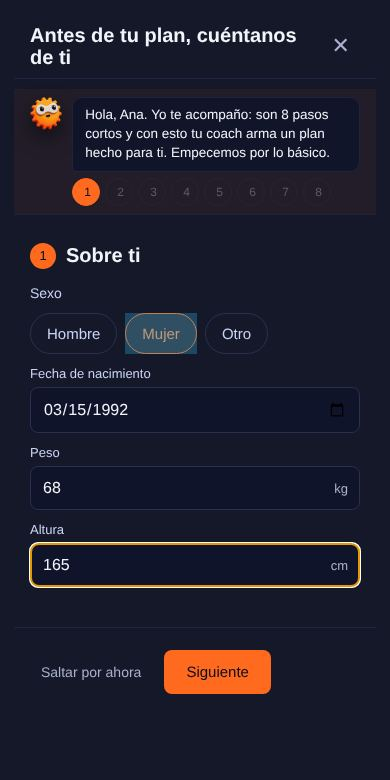
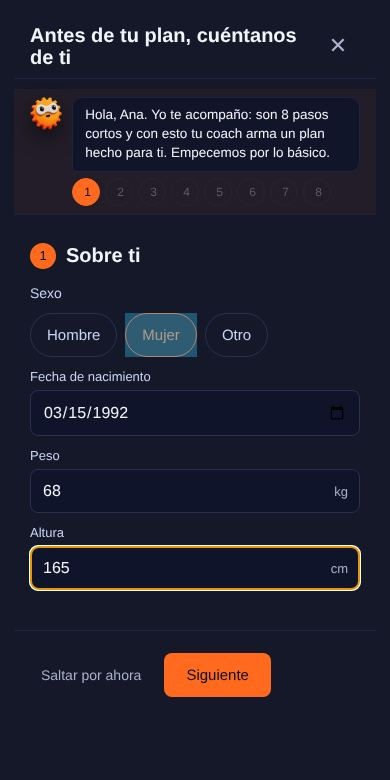
Pantalla táctil: todo lo que se toca, fácil de tocar
Con el dedo como puntero principal (@media (pointer: coarse); en computadora
no cambia nada):
- Botones, desplegables y campos miden al menos 44 px de alto.
- Campos a 16px (el celular hacía zoom al escribir).
- Enlaces de texto suelto (volver, dar de baja, cerrar sesión, reportes) con
  alto de 44 px sin cambiar su aspecto.
- Interruptores de Perfil y «+» del calendario: mismo dibujo, zona de toque
  de 44 px.
- Plan: ‹ rango › van juntos en su propia fila en celular.
- Prueba e2e que revisa Plan, Perfil y Registrar sesión en celular.

Claude-Session: https://claude.ai/code/session_01PEamorFJQWTATM98QwwjDk

diff --git a/e2e/nube/01-primer-ingreso.spec.ts b/e2e/nube/01-primer-ingreso.spec.ts
@@ -1,4 +1,5 @@
 import { test, expect, user } from '../support/ux';
+import { seedActivePlan, seedProfile } from '../support/seed';
 import { EXPERIMENTADO, NOVATA, bubbleText, dismissGuide, fillOnboarding, login } from '../support/flows';
 
 /**
@@ -408,5 +409,38 @@ test.describe('Cuestionario en celular', () => {
     await ux.shot('09-cuestionario-celular', page.locator('body'));
     await m.locator('#onboarding-next').tap();
     await expect(m.locator('.ob-step-dot[aria-current="step"]')).toHaveText('2');
+  });
+});
+
+test.describe('Pantalla táctil: lo que se toca es fácil de tocar', () => {
+  test.use({ viewport: { width: 390, height: 780 }, hasTouch: true, isMobile: true });
+
+  test('botones y campos de Plan, Perfil y Registrar sesión miden ≥ 44 px, con 16px, y la página no se ensancha', async ({ page, backend }) => {
+    const u = user('ana');
+    backend.users.push(u);
+    seedProfile(backend, u, 'ana');
+    seedActivePlan(backend, u);
+    await backend.seedSession(page, u);
+    await page.addInitScript(() => localStorage.setItem('torq.pinon.guides', 'off'));
+    for (const route of ['plan', 'profile', 'log']) {
+      await page.goto(`/#/${route}`);
+      await expect(page.locator('.screen, .perfil-screen').first()).toBeVisible();
+      await page.waitForTimeout(500);
+      const bad = await page.evaluate(() => {
+        const out: string[] = [];
+        const seen = (e: Element) => { const b = (e as HTMLElement).getBoundingClientRect(); return b.width > 0 && b.height > 0 && getComputedStyle(e).visibility !== 'hidden'; };
+        document.querySelectorAll('.screen button:not(.switch):not(.plan-day-mini-add):not(.perfil-danger-link), .screen select, .screen input:not([type=checkbox]):not([type=radio]):not([type=range]):not([type=file]):not([type=hidden])').forEach((e) => {
+          if (!seen(e)) return;
+          const h = (e as HTMLElement).getBoundingClientRect().height;
+          if (h < 43.5) out.push(`${e.tagName.toLowerCase()}#${e.id} ${Math.round(h)}px alto`);
+        });
+        document.querySelectorAll('input:not([type=checkbox]):not([type=radio]):not([type=range]):not([type=hidden]), select, textarea').forEach((e) => {
+          if (seen(e) && parseFloat(getComputedStyle(e).fontSize) < 16) out.push(`${e.tagName.toLowerCase()}#${e.id} fuente ${getComputedStyle(e).fontSize}`);
+        });
+        if (document.documentElement.scrollWidth > innerWidth) out.push('la página se ensancha');
+        return out;
+      });
+      expect(bad, `en #/${route}`).toEqual([]);
+    }
   });
 });

diff --git a/src/ui/styles.css b/src/ui/styles.css
@@ -8626,3 +8626,78 @@ body.remote-body {
 .plan-how-toggle .plan-how-list {
   margin-top: 8px;
 }
+
+/* ---------- Pantalla táctil: todo lo que se toca, fácil de tocar ----------
+   Solo con el dedo como puntero principal (celular, tableta): en computadora
+   no cambia nada. Botones, campos y desplegables miden al menos 44 px, los
+   campos van a 16px (si no, el celular hace zoom al escribir) y los enlaces
+   de texto suelto ganan alto sin moverse de lugar. */
+@media (pointer: coarse) {
+  button:not(.switch):not(.ob-step-dot):not(.plan-day-mini-add):not(.perfil-danger-link),
+  select,
+  summary,
+  input:not([type='checkbox']):not([type='radio']):not([type='range']):not([type='file']):not([type='hidden']) {
+    min-height: 44px;
+  }
+  input:not([type='checkbox']):not([type='radio']):not([type='range']),
+  select,
+  textarea {
+    font-size: 16px !important;
+  }
+  button:not(.switch):not(.ob-step-dot):not(.plan-day-mini-add) {
+    min-width: 44px;
+  }
+  summary {
+    display: flex;
+    align-items: center;
+  }
+  /* enlaces de texto suelto: más alto para tocarlos, sin cambiar su aspecto */
+  a.prepare-link,
+  a.plan-import-link,
+  a.sidebar-logo,
+  .perfil-danger-link,
+  .perfil-header a,
+  a.back-link,
+  a.perfil-coach-reports {
+    display: inline-flex;
+    align-items: center;
+    min-height: 44px;
+  }
+  /* interruptores: el dibujo no cambia, la zona de toque sí */
+  .switch::before {
+    content: '';
+    position: absolute;
+    inset: -10px -4px;
+  }
+  /* «+» de cada día del calendario: dibujo chico, zona de toque de 44 px */
+  .plan-day-mini-add {
+    position: relative;
+  }
+  .plan-day-mini-add::before {
+    content: '';
+    position: absolute;
+    inset: -11px;
+  }
+}
+
+/* Plan: ‹ rango › siempre juntos; en celular ocupan su propia fila. */
+.plan-nav {
+  display: flex;
+  align-items: center;
+  gap: 8px;
+}
+.plan-range {
+  width: 170px;
+  text-align: center;
+  display: inline-block;
+}
+@media (max-width: 560px) {
+  .plan-nav {
+    flex: 1 1 100%;
+    justify-content: space-between;
+  }
+  .plan-range {
+    width: auto;
+    flex: 1;
+  }
+}

diff --git a/src/ui/screens/calendar.ts b/src/ui/screens/calendar.ts
@@ -645,9 +645,11 @@ export function renderCalendar(container: HTMLElement): () => void {
               <button class="plan-view-btn${isMonth ? ' on' : ''}" id="view-month">Mes</button>
             </div>
             <button id="plan-today">Hoy</button>
-            <button id="plan-prev" aria-label="Anterior">‹</button>
-            <span class="live-col-label" style="width:170px;text-align:center;display:inline-block">${rangeLabel}</span>
-            <button id="plan-next" aria-label="Siguiente">›</button>
+            <div class="plan-nav">
+              <button id="plan-prev" aria-label="Anterior">‹</button>
+              <span class="live-col-label plan-range">${rangeLabel}</span>
+              <button id="plan-next" aria-label="Siguiente">›</button>
+            </div>
             <button type="button" class="plan-import-link csv-download-btn" id="plan-download-csv" title="Todo lo agendado, para abrir en Excel o Google Sheets">Descargar CSV</button>
           </div>
         </div>
